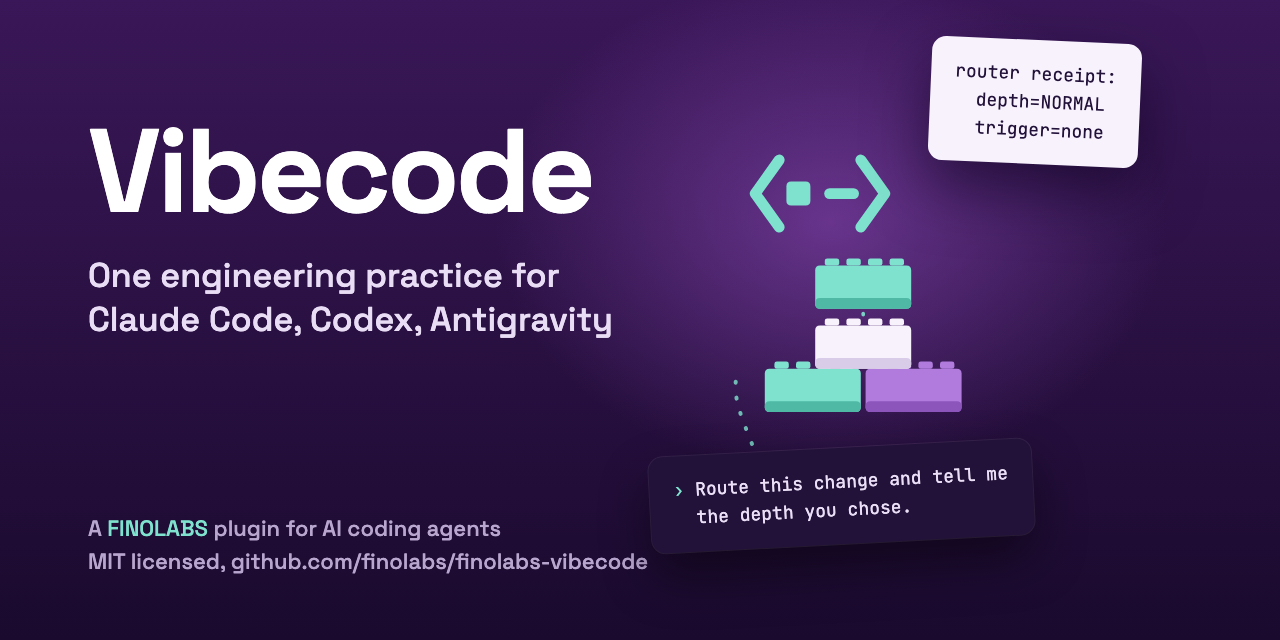
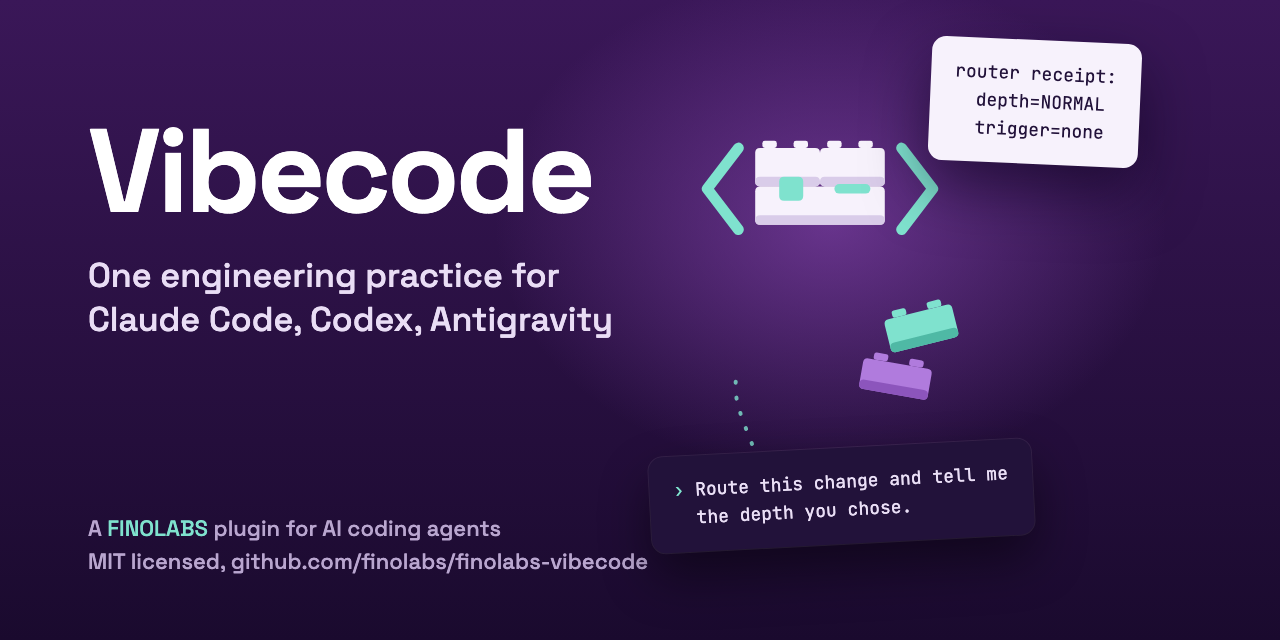
Build the robot from white bricks in the social preview
The head is three white bricks between the icon's brackets, so the robot
stands out where icon and bricks meet; the eyes keep the icon's mint. The
wall under it is gone and two loose bricks lie beside it.

Changed region(s): [[0.5938, 0.4062, 0.75, 0.6562], [0.5312, 0.2188, 0.75, 0.375]]

diff --git a/assets/NOTICE.md b/assets/NOTICE.md
@@ -17,4 +17,4 @@ Editable sources are icon.svg and icon-dark.svg. The two PNG files are transpare
 
 ## Social preview
 
-`.github/social-preview.png` (1280×640) is rendered from `.github/social-preview.json` with the FINOLABS social-preview template and `social-mark-dark.svg`: the dark icon above three plain bricks. The bricks are original flat shapes drawn for this project; no third-party artwork, logo or wordmark is used. The renderer drops `width` and `height` attributes, so the file draws every shape as a path. GitHub has no API for it: upload it under the repository's Settings, General, Social preview.
+`.github/social-preview.png` (1280×640) is rendered from `.github/social-preview.json` with the FINOLABS social-preview template and `social-mark-dark.svg`: the robot face built from three white bricks between the icon's brackets, with two loose bricks beside it. The bricks are original flat shapes drawn for this project; no third-party artwork, logo or wordmark is used. The renderer drops `width` and `height` attributes, so the file draws every shape as a path. GitHub has no API for it: upload it under the repository's Settings, General, Social preview.
